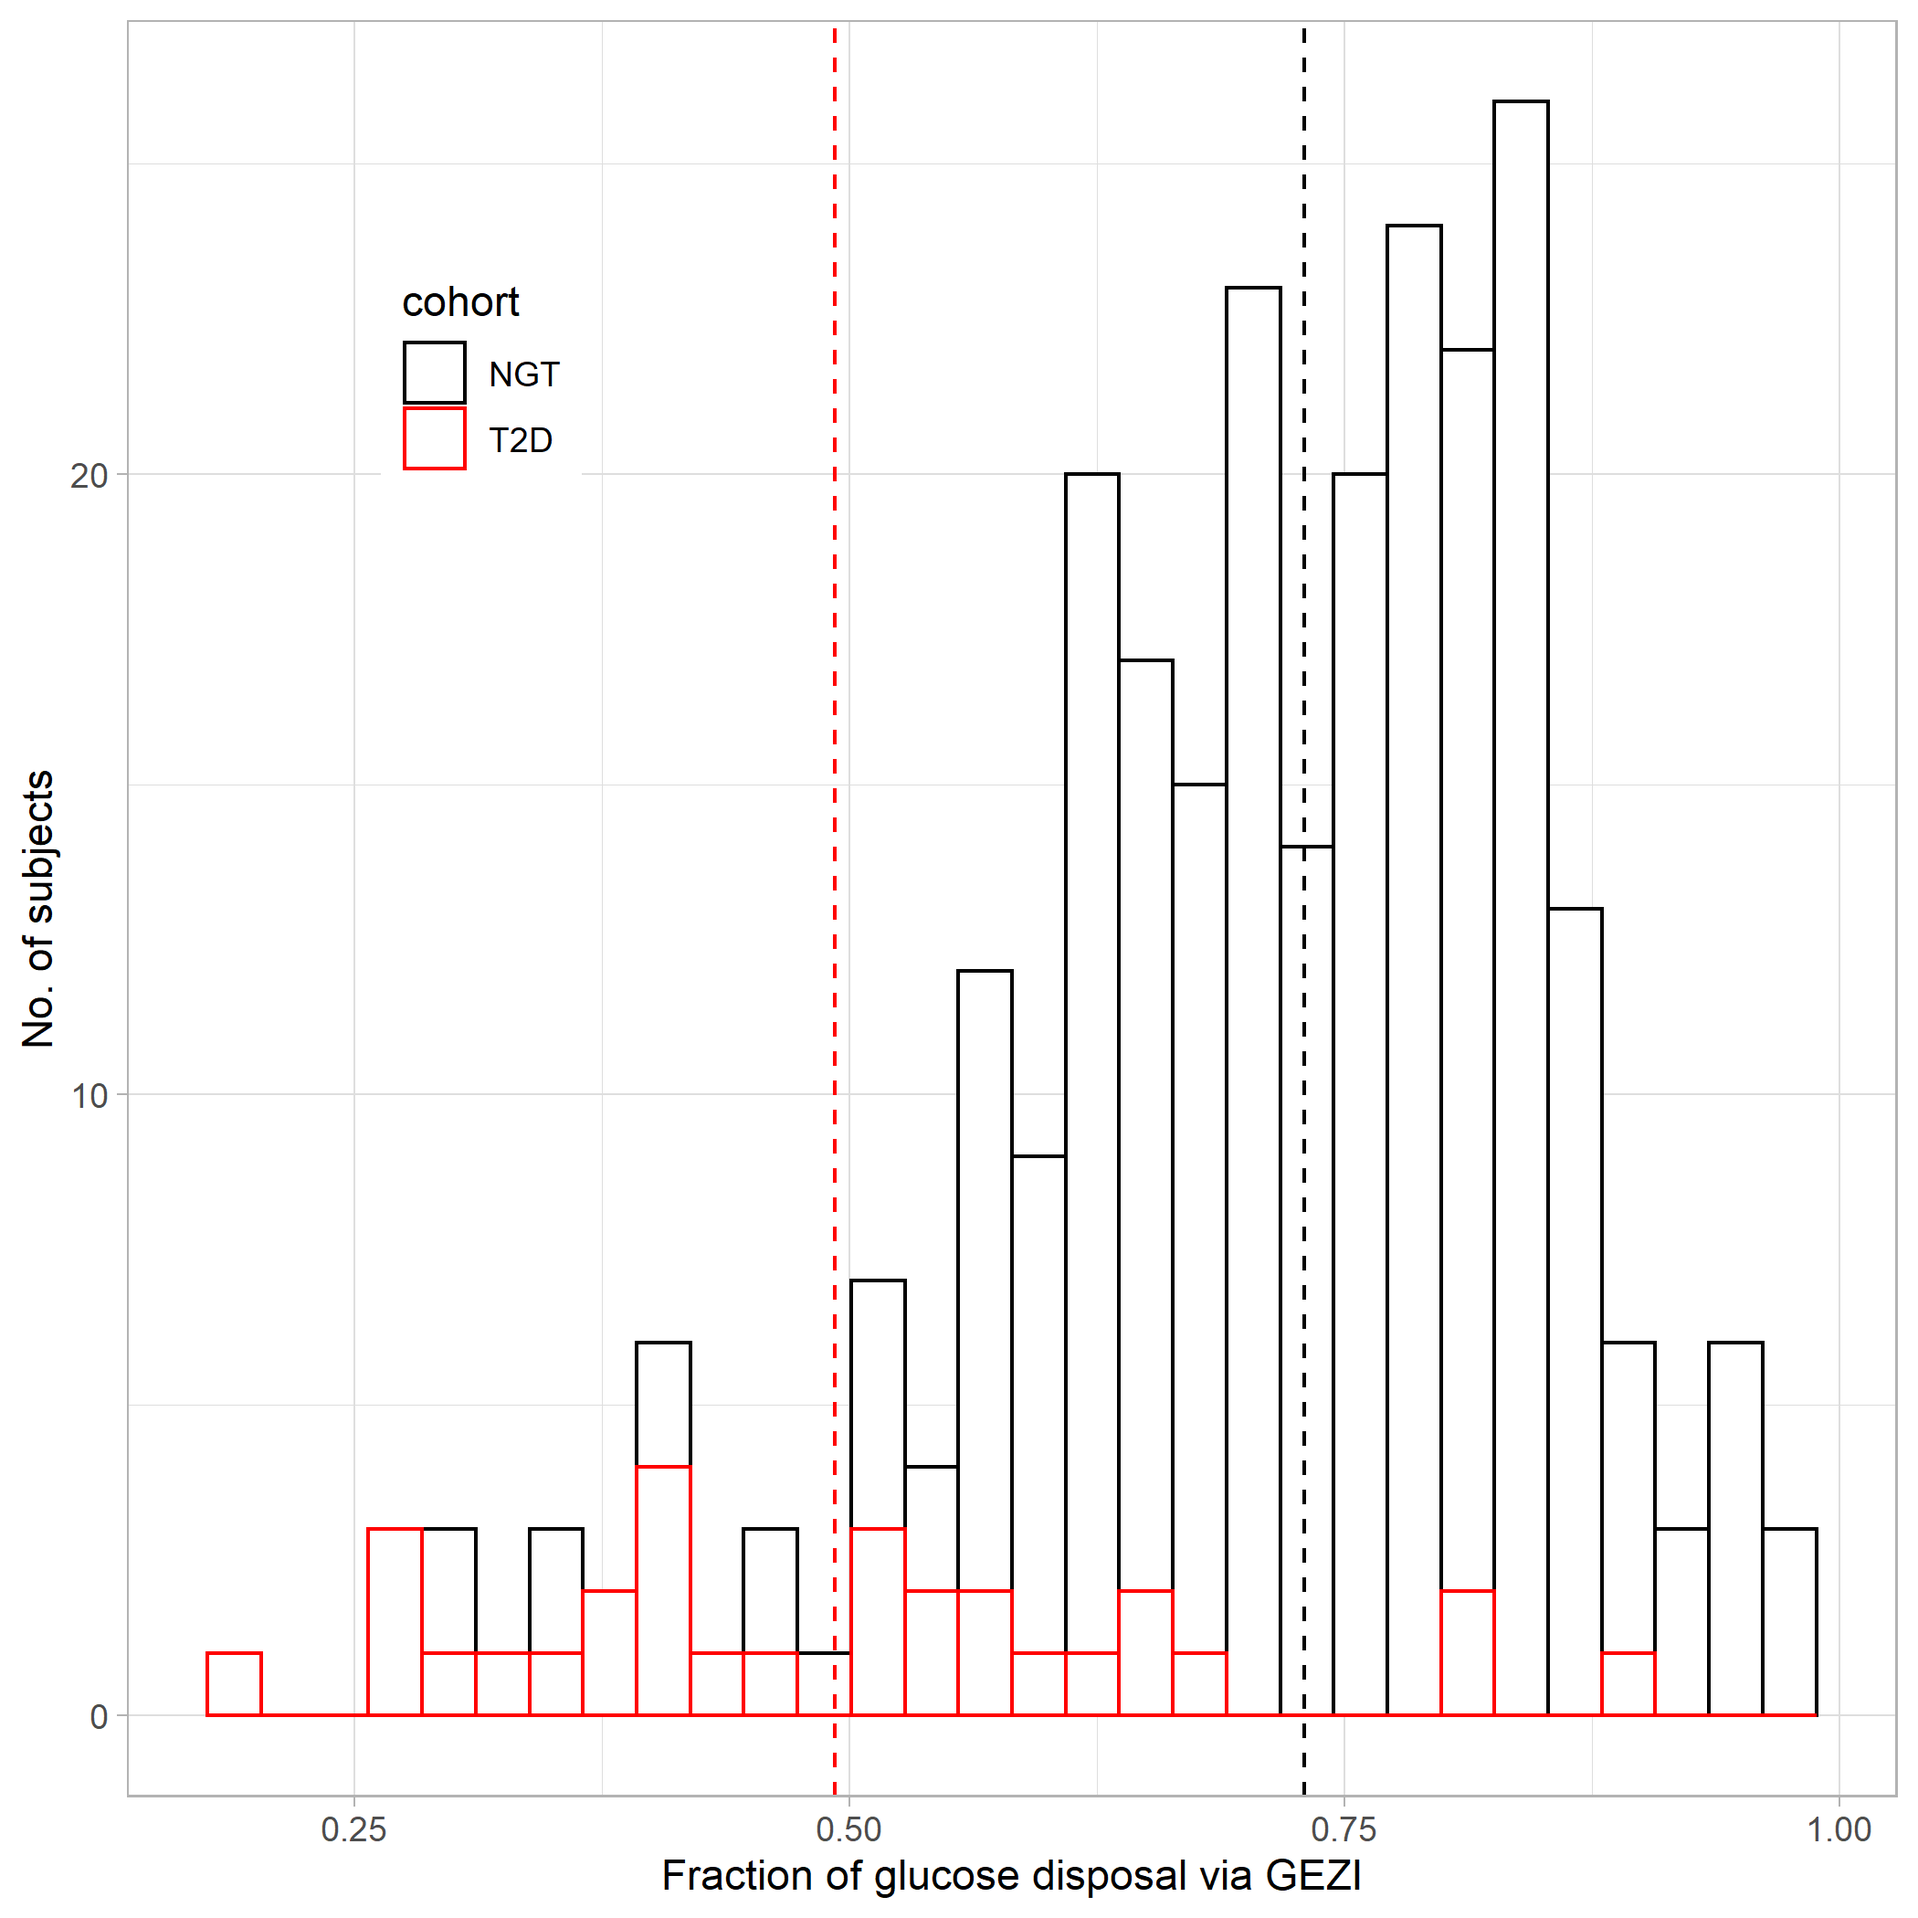
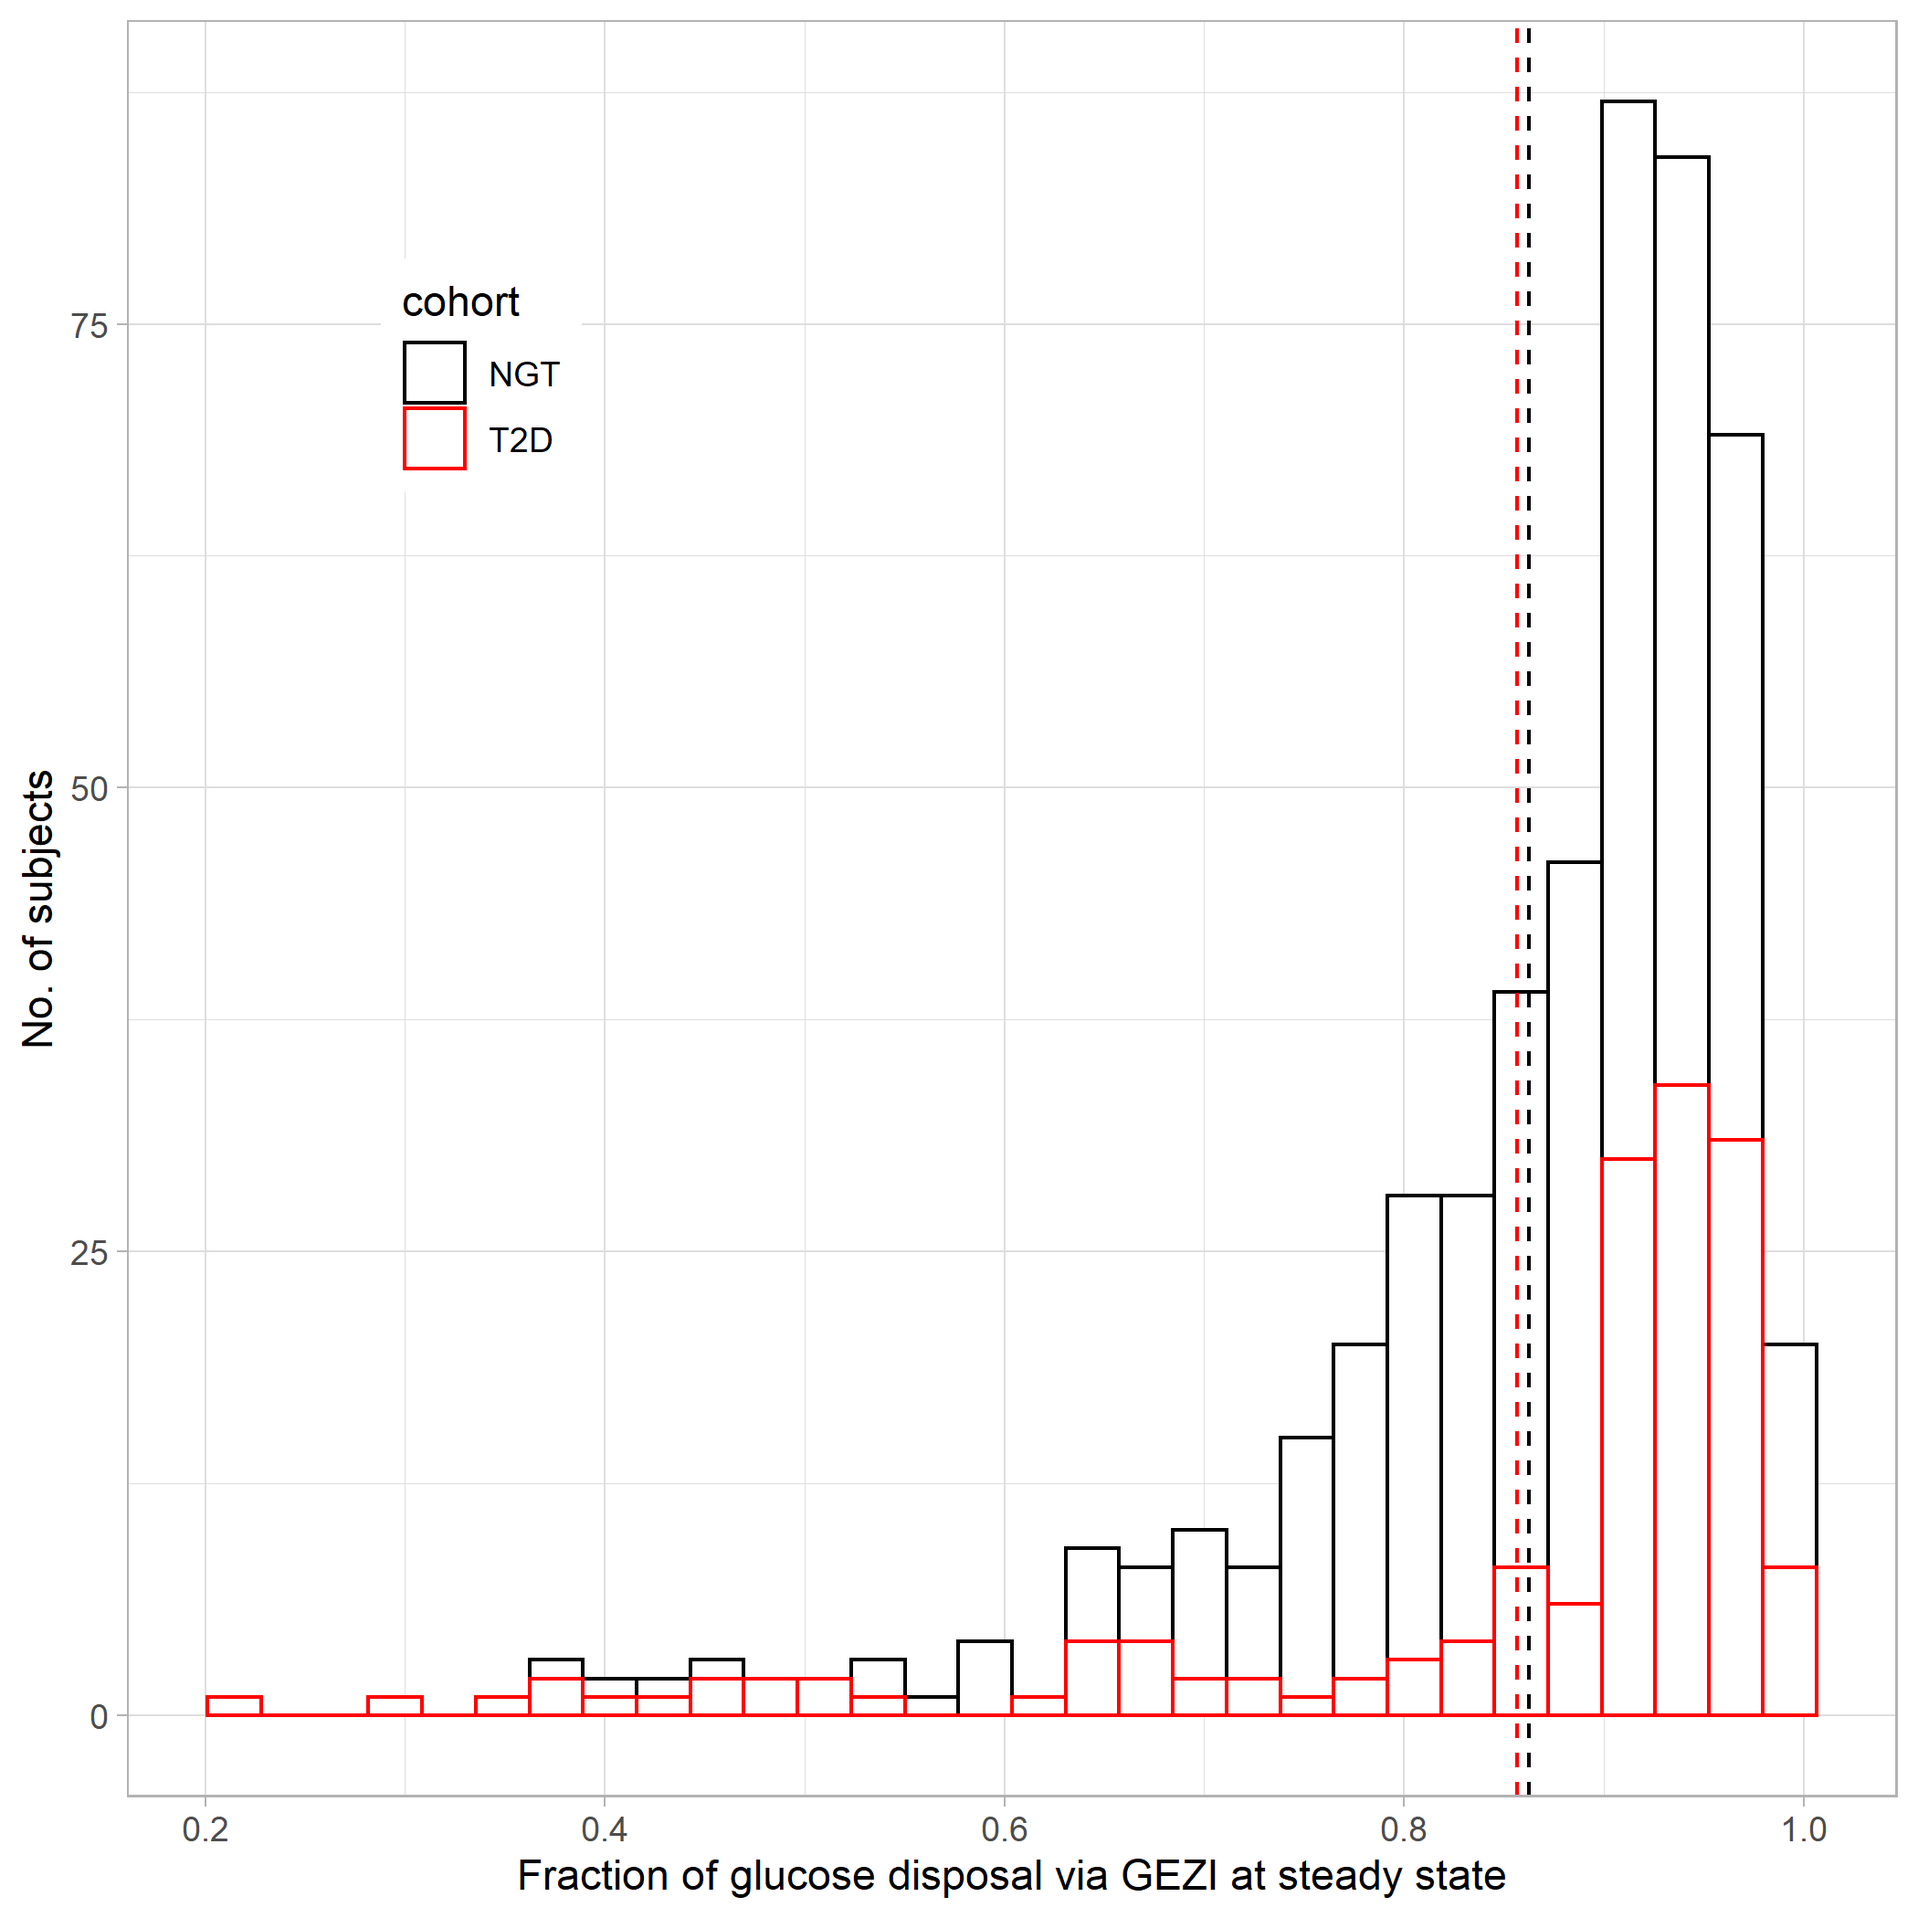
update section 3.3

diff --git a/frontiers.tex b/frontiers.tex
@@ -52,7 +52,7 @@ $^{2}$Metabolic Unit, CNR Institute of Neuroscience, Corso Stati Uniti 4, 35127 
 
 \maketitle
 Number of words:  \\
-Number of figures and tables: 8
+Number of figures and tables: 7
 
 \begin{abstract}
 \section{}
@@ -85,14 +85,15 @@ abstract contents
 % In this study, we pooled the glucose-insulin concentration-time data of 497 subjects from 51 groups, with a total of 8024 measurements . In Table. \ref{tab:studies}, we summarized the pooled studies by each study group, with the cohorts, sex information, mean demographic characteristics, study types and references displayed. The whole dataset includes 228 healthy subjects, 115 obese subjects and 154 type 2 diabetes patients (T2D). Obese subjects were classified as people in good general health with a body mass index (BMI) larger than 28 $kg/m^2$. Patients in the T2D cohort had type 2 diabetes at the baseline or had a placebo administration. 229 of the subjects underwent an insulin-modified IVGTT and 268 had an IVGTT. For the subjects with missing continuous covariates, mean values reported in the original papers were used if available (Table. \ref{tab:studies}). For 40 subjects from study groups 31, 32, 33, 34, the values of height, weight and BMI were missing, and only the ranges of BMI were reported. We used a virtual population generator (PopGen, \citet{McNally2015}) to generate virtual subjects for these four groups and applied the calculated mean weight to those subjects. Then, the heights were imputed using the equation: $H=\sqrt{weight/BMI}$ and the given mean BMI value. The sex information of 18 subjects from two study groups 6 and 36 was missing but the sex ratio (i.e., male/female) was mentioned in the literature, so random assignment was used to fill in the sex value. For 41 subjects from groups 9, 10, 28, 29, 40, no sex information about gender was provided and their sex values were set as not available (NA). 
 This study involves a pooled analysis of data from previous studies, each performed following the Declaration of Helsinki and upon approval of the respective institutional ethics committees, in which subjects were administered either an intravenous glucose tolerance test (IVGTT) or an insulin modified intravenous glucose tolerance test (IM-IVGTT). A total of 44 study groups was included in the analysis, comprising 497 different subjects as summarized in Table \ref{tab:studies}. Subjects with normal glucose tolerance (NGT) and with type 2 diabetes (T2D) (according to the guidelines in \citet{t2dm_class}) were incorporated in the analysis, including both obese (body mass index (BMI) $>$ 28 $kg/m^2$) and non-obese subjects, but not subjects with other conditions that might alter glucose regulation. A standard IVGTT was performed in 268 subjects, while an IM-IVGTT was administered to 229 subjects. Table \ref{tab:studies} also summarizes the information on the sex, age, weight, height, and BMI of the subjects.
 
-Studies in which some of the characteristics are missing in individual subjects are noted in Table \ref{tab:studies}, with missing values imputed as follows. For studies in which only mean values of age, weight, height or BMI were reported (see table), each subject was assigned the corresponding mean value from that study. In 40 subjects from four of the study groups, the values of height, weight and BMI were missing, and only the mean BMI and its standard deviation (SD) were reported. For these subjects, we applied the virtual population anthropomorphic generator PopGen (\cite{McNally2015}) to produce 40 virtual subject, using the reported mean BMI±2SD as the required BMI range, the reported mean age, and the reported proportion of males \citep{1998_AGING_Ahren}. The resulting mean body weight of the virtual subjects in each group was then assigned to each of the 40 subjects, with the missing  heights  calculated as $H=\sqrt{weight/BMI}$ using the mean BMI value. The sex of 18 subjects from two study groups (see table) was missing but the proportion of men and woman was reported, and the latter was used to randomly assign the sex of the subjects. For 41 subjects from five studies, no sex was provided, and the sex of these subjects was classified as not available (NA). After missing covariate imputation, characteristics of all 497 subjects are as summarized in Table \ref{tab:demo}, which includes sex, age, weight, height and body mass index. A graphic overview of investigated covariates is provided in Figure \ref{fig: cova}. \\
+\vskip 0.5cm
+Studies in which some of the characteristics are missing in individual subjects are noted in Table \ref{tab:studies}, with missing values imputed as follows. For studies in which only mean values of age, weight, height or BMI were reported (see table), each subject was assigned the corresponding mean value from that study. In 40 subjects from four of the study groups, the values of height, weight and BMI were missing, and only the mean BMI and its standard deviation (SD) were reported. For these subjects, we applied the virtual population anthropomorphic generator PopGen (\cite{McNally2015}) to produce 40 virtual subject, using the reported mean BMI±2SD as the required BMI range, the reported mean age, and the reported proportion of males \citep{1998_AGING_Ahren}. The resulting mean body weight of the virtual subjects in each group was then assigned to each of the 40 subjects, with the missing  heights  calculated as $H=\sqrt{weight/BMI}$ using the mean BMI value. The sex of 18 subjects from two study groups (see table) was missing but the proportion of men and woman was reported, and the latter was used to randomly assign the sex of the subjects. For 41 subjects from five studies, no sex was provided, and the sex of these subjects was classified as not available (NA). After missing covariate imputation, characteristics of all 497 subjects are as summarized in Table \ref{tab:demo}, which includes sex, age, weight, height and body mass index. A graphic overview of investigated covariates is provided in Figure \ref{fig: cova}. 
 
 \vskip 0.5cm
 \subsection{Minimal model}
 % We employed M1 version of the minimal model (\citet{Bergman1979}, \citet{Araujo-vilar1998}) to describe glucose-insulin disposition processes. The model equations can be showed as:
 The following parameterization of the minimal model for glucose and insulin was used in the analysis (\citet{Bergman1979}, \citet{Araujo-vilar1998}):
 \begin{equation}
-\frac{dG(t)}{dt} =GEZI*(-G(t)+G_{basal})-X(t)*G(t)+X_{basal}*G_{basal}, \quad G(0) =G_{basal}+\frac{Dose}{V}\label{eq:01}
+\frac{dG(t)}{dt} =-(GEZI+X(t))*G(t)+(GEZI+X_{basal})*G_{basal}, \quad G(0) =G_{basal}+\frac{Dose}{V}\label{eq:01}
 \end{equation}
 \begin{equation}
 \frac{dX(t)}{dt} =-p2*X(t)+p2*S_I*I(t), \quad X(0) =S_I*I_{basal}\label{eq:02}
@@ -130,7 +131,7 @@ In the final population model, $S_I$ was found to be associated with both BMI an
 \vskip 0.5cm
 \subsection{$GEZI$ contributes significantly to net glucose disposition in NGT and T2D}
 % In order to compare the relative contribution of $GEZI$ and $S_I$ on controlling glucose concentration, we simulated the glucose profiles of four virtual subjects with different $GEZI$ and $S_I$ values during an IVGTT (Figure \ref{fig: simu}). We fixed the body weight and BMI to the median value of all subjects, so that the virtual subjects had the same $p2$ and volume of distribution ($V$) without any effects by BMI or body weight. Compared to the healthy subject A, $GEZI$ and $S_I$ were reduced due to the development of T2D in other virtual subjects. The most impaired function of controlling glucose can be observed in the virtual subject B (a typical T2D patient) (Figure \ref{fig: simu}). The comparison of glucose profiles of subject C and D indicates the decrease of $GEZI$ due to T2D results in stronger influence than the corresponding reduction in $S_I$, which suggests the important role of glucose effectiveness in the regulation of glucose homeostasis \citep{Dube2015}. 
-In order to compare the relative contributions of $GEZI$ and $S_I$ to net glucose uptake, we determined the proportion of glucose uptake due to glucose itself and due to insulin, in both subjects with NGT and those with T2D. We simulated IVGTT experiments of 268 subjects and calculated the fraction of glucose disposal mediated by $GEZI$ at the endpoint of the study. In 238 NGT subjects, $GEZI$ on average accounts for 73.0\% of the total net glucose disposal, with a standard deviation of 12.2\%, which is basically consistent with the reported range of 45\% to 65\% in \citet{Alford_2018}. In 30 T2D subjects, the net glucose disposition via $GEZI$ and $S_I$ were both significantly reduced. The mean portion mediated by $GEZI$ is 49.3\% with a larger standard deviation of 17.5\%. This model-based result further quantifies the important role of glucose effectiveness in the regulation of glucose homeostasis \citep{Dube2015}.
+In order to compare the relative contributions of $GEZI$ and $S_I$ to net glucose uptake, we determined the proportion of glucose uptake due to glucose itself and due to insulin, in both subjects with NGT and those with T2D. At the steady state, the fraction of glucose disposal mediated by $GEZI$ can be calculated as: $\frac{GEZI}{GEZI+S_I*I_{basal}}$, using the individual estimates of $GEZI$ and $S_I$ and measured $I_{basal}$ of each subject. In 343 NGT subjects, $GEZI$ on average accounts for 86.3\% of the total net glucose disposal with a standard deviation of 10.3\%, which suggests a major contribution of glucose effectiveness to the total net glucose disposal. In 154 T2D subjects, the mean portion mediated by $GEZI$ is 85.7\% with a standard deviation of 16.4\%. Also, we simulated IVGTT experiments of 268 subjects and calculated the accumulative glucose diposal mediated by $GEZI$ and $S_I$ till the end of studies. In 238 NGT subjects, the fraction of glucose disposition by $GEZI$ has a mean value of 73.0\% with a standard deviation of 12.3\%, which is basically consistent with the reported range (45\% to 65\%) in \citet{Alford_2018}. In 30 T2D patients, 49.3\% of net glucose disposition after an IV load can be attributed to $GEZI$ on average with a standard deviation of 17.5\%. These model-based results further quantify the important role of glucose effectiveness in the regulation of glucose homeostasis \citep{Dube2015}.
 
 \section{DISCUSSION}
 % the increase of SG in normal "at risk" subjects, but reduced SG in estbalished subjects (Alford_2018); Over time, the combination of a low GE and disordered β‐cell function leads to glucose intolerance and type 2 diabetes.
@@ -366,13 +367,13 @@ Correlation between model parameters: $GEZI$ and $S_I$: -0.20; $GEZI$ and $p2$: 
 \label{fig: SI_BMI}
 \end{figure}
 
-\begin{figure}[h!]
-\begin{center}
-\includegraphics[width=15cm]{frac.PNG}
-\end{center}
-\caption{The histogram showing the distribution of fraction of glucose disposal via GEZI of 268 subjects who underwent IVGTT. The bars with black and red outlines indicate 238 NGT and 30 T2D subjects, respectively. The means of the two cohorts are labelled as dash lines}
-\label{fig: SI_BMI}
-\end{figure}
+%\begin{figure}[h!]
+%%\begin{center}
+%\includegraphics[width=15cm]{frac.PNG}
+%\end{center}
+%\caption{The histogram showing the distribution of fraction of %%glucose disposal via GEZI of 497 subjects at the steady state. The %%bars with black and red outlines indicate 343 NGT and 154 T2D %subjects, respectively. The means of the two cohorts are labelled %as dash lines}
+%\label{fig: SI_BMI}
+%\end{figure}
 
 %%\begin{figure}[h!]
 %%\begin{center}
